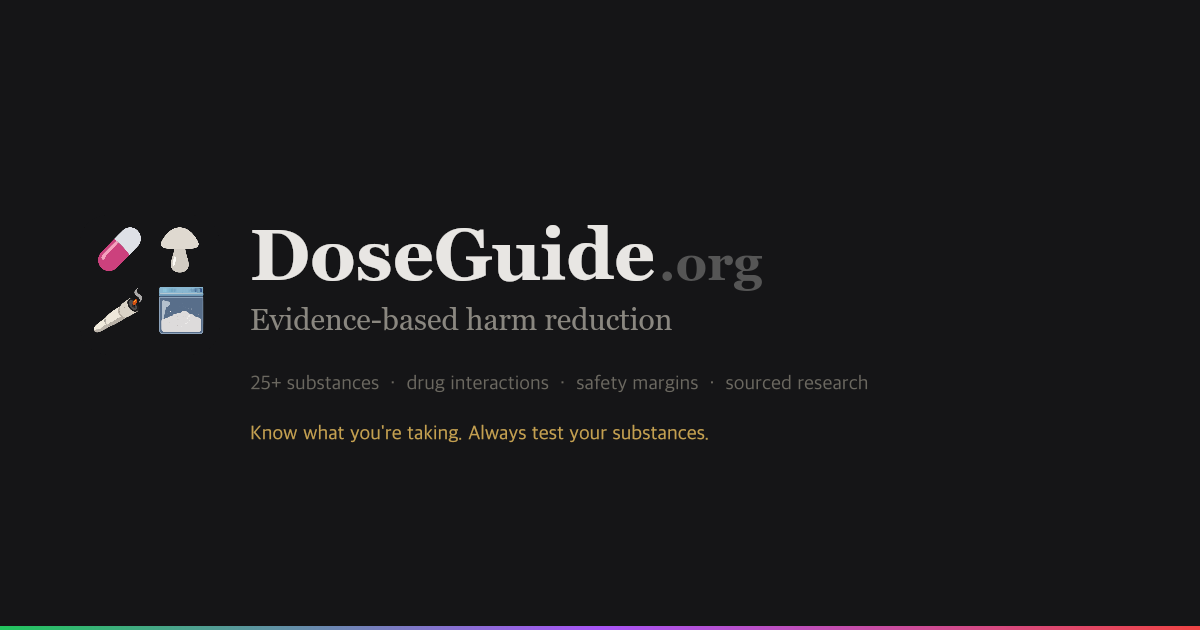
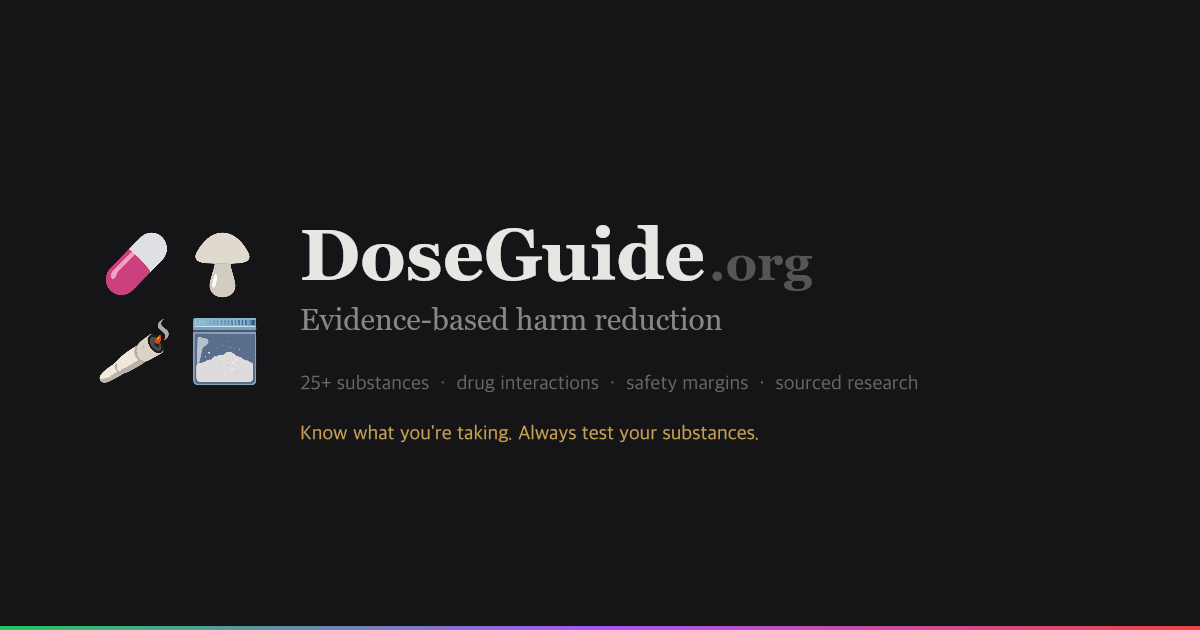
more share card improvements

Changed region(s): [[0.0617, 0.3619, 0.7708, 0.6333], [0.2158, 0.6635, 0.6167, 0.7238], [0.0617, 0.5127, 0.0925, 0.5429]]

diff --git a/scripts/generate-og.js b/scripts/generate-og.js
@@ -18,16 +18,18 @@ async function generate() {
 
   // Load and draw logo
   const logo = await loadImage(resolve(__dirname, '../public/logo.png'));
-  const logoSize = 140;
+  const logoSize = 200;
+  const logoPadding = 10; // logo has ~10px internal padding before content starts
   const blockH = 250;
   const topY = (H - blockH) / 2;
 
   // Title — "DoseGuide" + ".org"
-  const titleX = 80 + logoSize + 30;
+  const titleX = 80 + logoSize + 20;
   const titleY = topY + 90;
 
-  // Align logo top with text top (72px Georgia ascent ~55px above baseline)
-  const logoX = 80, logoY = titleY - 65;
+  // Logo top aligned with text top, offset by internal padding so the icons align
+  // Text ascent for 72px Georgia bold is ~55px above baseline
+  const logoX = 80, logoY = titleY - 55 - logoPadding;
   ctx.drawImage(logo, logoX, logoY, logoSize, logoSize);
   ctx.fillStyle = '#e8e6e3';
   ctx.font = 'bold 72px Georgia, serif';
